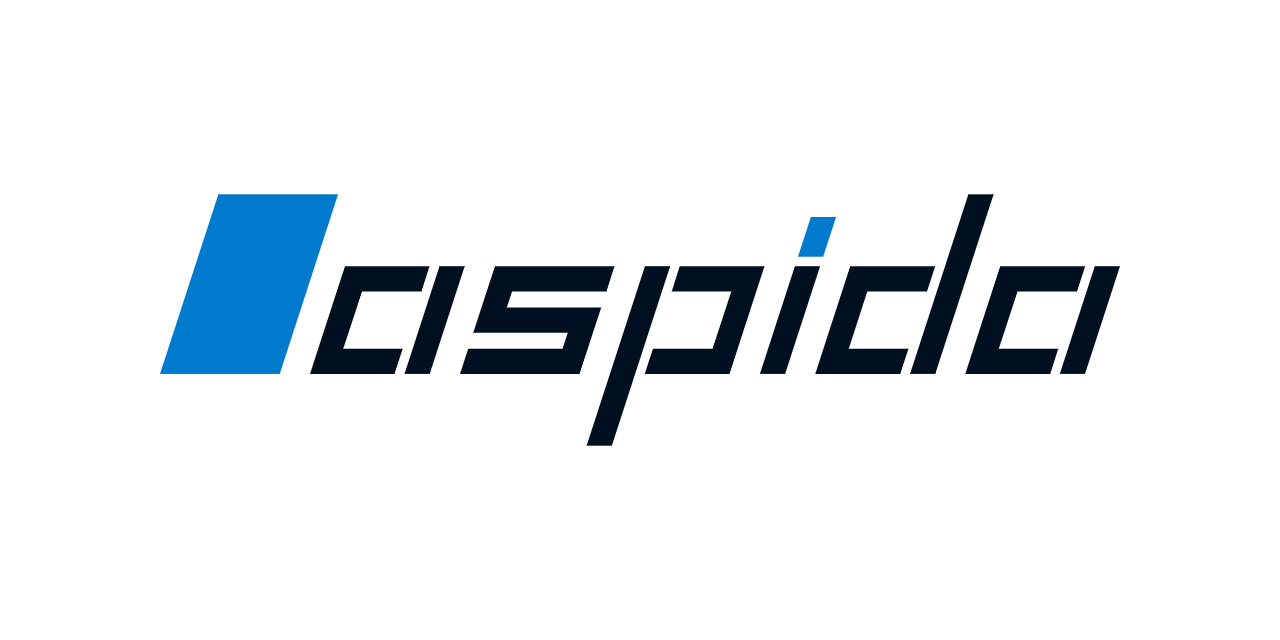
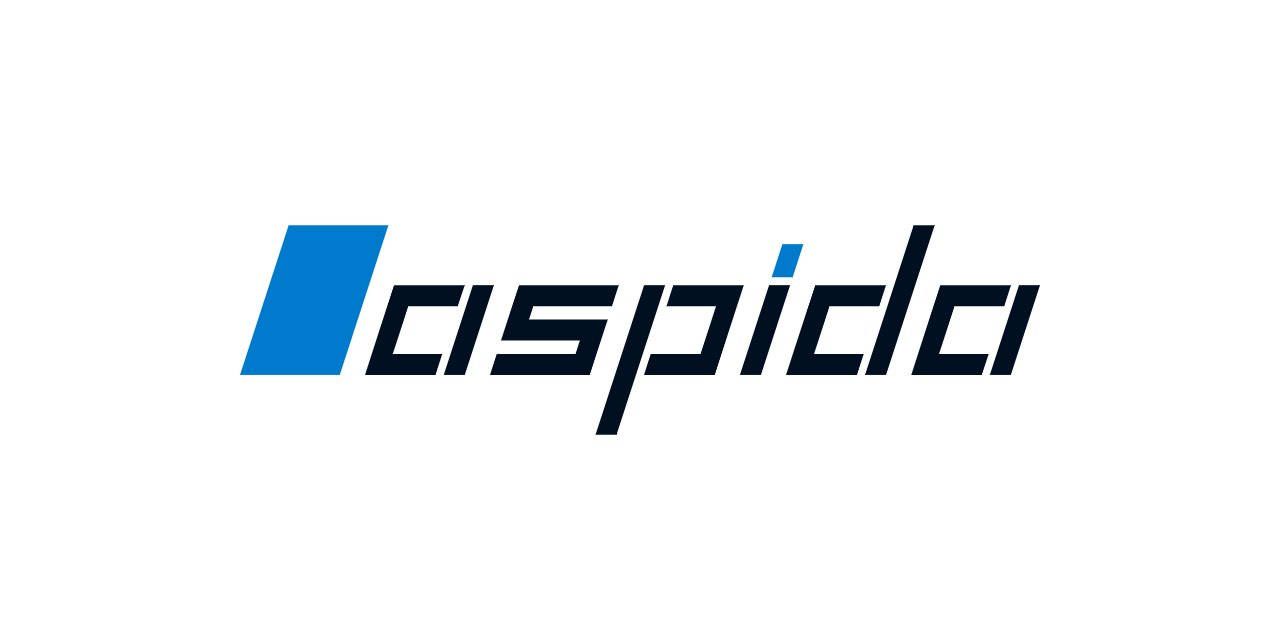
chore: update README and images

Changed region(s): [[0.125, 0.2812, 0.875, 0.6875]]

diff --git a/packages/aspida/docs/ja/README.md b/packages/aspida/docs/ja/README.md
@@ -1,11 +1,6 @@
 # aspida
 <br />
-<br />
-<br />
-<br />
-<img src="https://aspida.github.io/aspida/logos/svg/black.svg" alt="aspida" title="aspida" width="1000" height="120" />
-<br />
-<br />
+<img src="https://aspida.github.io/aspida/logos/png/logo.png" alt="aspida" title="aspida" />
 <div align="center">
   <a href="https://www.npmjs.com/package/aspida">
     <img src="https://img.shields.io/npm/v/aspida" alt="npm version" />
@@ -183,10 +178,6 @@ import api from "../api/$api"
 })()
 ```
 
-### Qiita の投稿記事を読む
-
-**[aspida - Qiita](https://qiita.com/tags/aspida)**
-
 ### aspida 公式 HTTP クライアント
 
 - **[@aspida/axios](https://github.com/aspida/aspida/tree/master/packages/aspida-axios#readme)**
@@ -276,7 +267,7 @@ watch([
 
 - [openapi2aspida](https://github.com/aspida/openapi2aspida) - Convert OpenAPI 3.0 and Swagger 2.0 definitions
 - [aspida-mock](https://github.com/aspida/aspida-mock) - TypeScript friendly RESTful API mock
-- [frourio](https://github.com/frouriojs/frourio) - Frourio is a perfectly type-checkable REST framework for TypeScript
+- [frourio](https://frourio.io/) - Fast and type-safe full stack framework, for TypeScript TypeScript
 - [@aspida/swr](https://github.com/aspida/aspida/tree/master/packages/aspida-swr) - SWR (React Hooks) wrapper
 - [@aspida/swrv](https://github.com/aspida/aspida/tree/master/packages/aspida-swrv) - SWRV (Vue Composition API) wrapper
 - [eslint-plugin-aspida](https://github.com/ibuki2003/eslint-plugin-aspida) - Support writing aspida api definition

diff --git a/README.md b/README.md
@@ -1,11 +1,6 @@
 # aspida
 <br />
-<br />
-<br />
-<br />
-<img src="https://aspida.github.io/aspida/logos/svg/black.svg" alt="aspida" title="aspida" width="1000" height="120" />
-<br />
-<br />
+<img src="https://aspida.github.io/aspida/logos/png/logo.png" alt="aspida" title="aspida" />
 <div align="center">
   <a href="https://www.npmjs.com/package/aspida">
     <img src="https://img.shields.io/npm/v/aspida" alt="npm version" />
@@ -183,10 +178,6 @@ import api from "../api/$api"
 })()
 ```
 
-### Read more posts by DEV Community
-
-**[aspida - DEV Community](https://dev.to/t/aspida)**
-
 ### aspida official HTTP clients
 
 - **[@aspida/axios](https://github.com/aspida/aspida/tree/master/packages/aspida-axios#readme)**
@@ -277,7 +268,7 @@ watch([
 
 - [openapi2aspida](https://github.com/aspida/openapi2aspida) - Convert OpenAPI 3.0 and Swagger 2.0 definitions
 - [aspida-mock](https://github.com/aspida/aspida-mock) - TypeScript friendly RESTful API mock
-- [frourio](https://github.com/frouriojs/frourio) - Frourio is a perfectly type-checkable REST framework for TypeScript
+- [frourio](https://frourio.io/) - Fast and type-safe full stack framework, for TypeScript TypeScript
 - [@aspida/swr](https://github.com/aspida/aspida/tree/master/packages/aspida-swr) - SWR (React Hooks) wrapper
 - [@aspida/swrv](https://github.com/aspida/aspida/tree/master/packages/aspida-swrv) - SWRV (Vue Composition API) wrapper
 - [eslint-plugin-aspida](https://github.com/ibuki2003/eslint-plugin-aspida) - Support writing aspida api definition

diff --git a/packages/aspida/README.md b/packages/aspida/README.md
@@ -3,7 +3,7 @@
 <br />
 <br />
 <br />
-<img src="https://aspida.github.io/aspida/logos/svg/black.svg" alt="aspida" title="aspida" width="1000" height="120" />
+<img src="https://aspida.github.io/aspida/logos/png/logo.png" alt="aspida" title="aspida" width="1000" height="120" />
 <br />
 <br />
 <div align="center">
@@ -183,10 +183,6 @@ import api from "../api/$api"
 })()
 ```
 
-### Read more posts by DEV Community
-
-**[aspida - DEV Community](https://dev.to/t/aspida)**
-
 ### aspida official HTTP clients
 
 - **[@aspida/axios](https://github.com/aspida/aspida/tree/master/packages/aspida-axios#readme)**
@@ -277,7 +273,7 @@ watch([
 
 - [openapi2aspida](https://github.com/aspida/openapi2aspida) - Convert OpenAPI 3.0 and Swagger 2.0 definitions
 - [aspida-mock](https://github.com/aspida/aspida-mock) - TypeScript friendly RESTful API mock
-- [frourio](https://github.com/frouriojs/frourio) - Frourio is a perfectly type-checkable REST framework for TypeScript
+- [frourio](https://frourio.io/) - Fast and type-safe full stack framework, for TypeScript TypeScript
 - [@aspida/swr](https://github.com/aspida/aspida/tree/master/packages/aspida-swr) - SWR (React Hooks) wrapper
 - [@aspida/swrv](https://github.com/aspida/aspida/tree/master/packages/aspida-swrv) - SWRV (Vue Composition API) wrapper
 - [eslint-plugin-aspida](https://github.com/ibuki2003/eslint-plugin-aspida) - Support writing aspida api definition

diff --git a/packages/aspida-node-fetch/README.md b/packages/aspida-node-fetch/README.md
@@ -1,11 +1,6 @@
 # @aspida/node-fetch
 <br />
-<br />
-<br />
-<br />
-<img src="https://aspida.github.io/aspida/logos/svg/black.svg" alt="aspida" title="aspida" width="1000" height="120" />
-<br />
-<br />
+<img src="https://aspida.github.io/aspida/logos/png/logo.png" alt="aspida" title="aspida" />
 <div align="center">
   <a href="https://www.npmjs.com/package/@aspida/node-fetch">
     <img src="https://img.shields.io/npm/v/@aspida/node-fetch" alt="npm version" />

diff --git a/packages/aspida-axios/README.md b/packages/aspida-axios/README.md
@@ -1,11 +1,6 @@
 # @aspida/axios
 <br />
-<br />
-<br />
-<br />
-<img src="https://aspida.github.io/aspida/logos/svg/black.svg" alt="aspida" title="aspida" width="1000" height="120" />
-<br />
-<br />
+<img src="https://aspida.github.io/aspida/logos/png/logo.png" alt="aspida" title="aspida" />
 <div align="center">
   <a href="https://www.npmjs.com/package/@aspida/axios">
     <img src="https://img.shields.io/npm/v/@aspida/axios" alt="npm version" />

diff --git a/packages/aspida-fetch/README.md b/packages/aspida-fetch/README.md
@@ -1,11 +1,6 @@
 # @aspida/fetch
 <br />
-<br />
-<br />
-<br />
-<img src="https://aspida.github.io/aspida/logos/svg/black.svg" alt="aspida" title="aspida" width="1000" height="120" />
-<br />
-<br />
+<img src="https://aspida.github.io/aspida/logos/png/logo.png" alt="aspida" title="aspida" />
 <div align="center">
   <a href="https://www.npmjs.com/package/@aspida/fetch">
     <img src="https://img.shields.io/npm/v/@aspida/fetch" alt="npm version" />

diff --git a/packages/aspida-swrv/README.md b/packages/aspida-swrv/README.md
@@ -1,11 +1,6 @@
 # @aspida/swrv
 <br />
-<br />
-<br />
-<br />
-<img src="https://aspida.github.io/aspida/logos/svg/black.svg" alt="aspida" title="aspida" width="1000" height="120" />
-<br />
-<br />
+<img src="https://aspida.github.io/aspida/logos/png/logo.png" alt="aspida" title="aspida" />
 <div align="center">
   <a href="https://www.npmjs.com/package/@aspida/swrv">
     <img src="https://img.shields.io/npm/v/@aspida/swrv" alt="npm version" />

diff --git a/packages/aspida-swr/README.md b/packages/aspida-swr/README.md
@@ -1,11 +1,6 @@
 # @aspida/swr
 <br />
-<br />
-<br />
-<br />
-<img src="https://aspida.github.io/aspida/logos/svg/black.svg" alt="aspida" title="aspida" width="1000" height="120" />
-<br />
-<br />
+<img src="https://aspida.github.io/aspida/logos/png/logo.png" alt="aspida" title="aspida" />
 <div align="center">
   <a href="https://www.npmjs.com/package/@aspida/swr">
     <img src="https://img.shields.io/npm/v/@aspida/swr" alt="npm version" />
